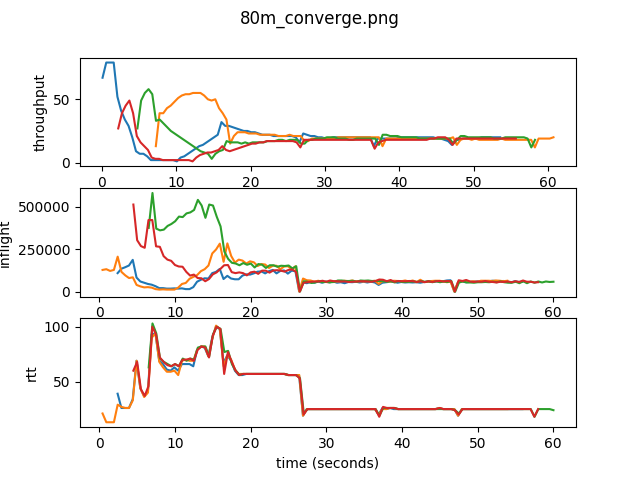
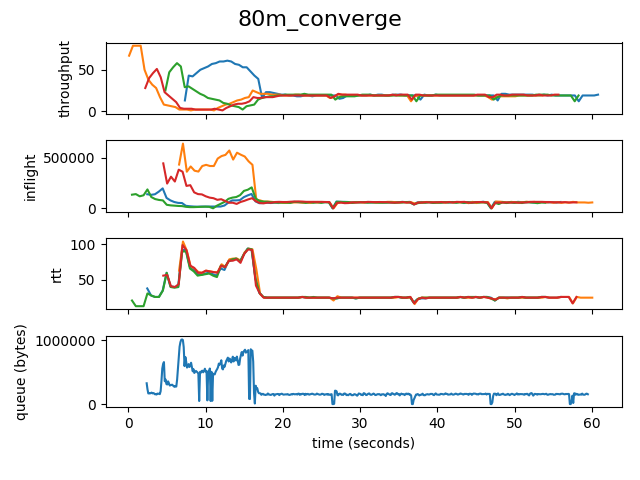
Now adds plots for queue statistics for each experiment

diff --git a/Experiments/record_local.py b/Experiments/record_local.py
@@ -1,18 +1,49 @@
+#!/usr/bin/python3
+
 import time
 import os
 import re
+import sys
+import time
 
 # pattern = re.compile(b"backlog.*b")
 pattern = (r"backlog (?P<num>\d*)b")
 patternK = (r"backlog (?P<num>\d*)Kb")
 patternM = (r"backlog (?P<num>\d*)Mb")
 
-for i in range(int(60 / .1)):
-    
+def main():
+    t = 60
+    out = sys.stdout
+    if (len(sys.argv) > 1):
+        t = int(sys.argv[1]) # seconds
+    if (len(sys.argv) > 2):
+        print("writing to: ", sys.argv[2])
+        out = open(sys.argv[2], 'w')
+    if (len(sys.argv) > 3):
+        print("waiting for : ", sys.argv[3])
+        time.sleep(int(sys.argv[3]))
+    for i in range(int(t / .1)):
+        buffer_len = get_current_buffer()
+        print(time.time(), ",", buffer_len, file=out)
+        time.sleep(.1)
+    if (len(sys.argv) > 2):
+        print("Finished writing to ", sys.argv[2], "after time", t)
+        out.close()
+
+def get_current_buffer():
+    """
+    return the current number of bytes in the tbf
+    ignore the duplicate tbf and the netem queue
+    output is always in bytes
+    """
+
+    # get the ouptut from the system call
     output = os.popen("sudo tc -s qdisc ls dev enp3s0").read()
-    buffer_len = 0
     has_skipped_netem = False
     for line in output.split("\n"):
+        # it looks like the tbf share a buffer
+        # So, the we only need to recor the first one seen
+        # break after the second one
         match = re.search(pattern, line)
         matchK = re.search(patternK, line)
         matchM = re.search(patternM, line)
@@ -21,21 +52,20 @@ for i in range(int(60 / .1)):
                 has_skipped_netem = True
                 continue
             bytes_in_buffer = int(match.group("num"))
-            buffer_len += bytes_in_buffer
+            return bytes_in_buffer
         elif (matchK):
             if (not has_skipped_netem):
                 has_skipped_netem = True
                 continue
             bytes_in_buffer = 100 * int(matchK.group("num"))
-            buffer_len += bytes_in_buffer
+            return  bytes_in_buffer
         elif (matchM):
             if (not has_skipped_netem):
                 has_skipped_netem = True
                 continue
             bytes_in_buffer = 1000000 * int(matchM.group("num"))
-            buffer_len += bytes_in_buffer
+            return bytes_in_buffer
 
 
-    # print(time.time(), ",", buffer_len)
-    print(output)
-    time.sleep(.1)
+if __name__ == "__main__":
+    main()

diff --git a/Experiments/run.py b/Experiments/run.py
@@ -8,6 +8,7 @@ PARSE_PCAP = f"{TOOLS_DIR}/Parse_pcap/target/release/parse_pcap"
 PLOT_PCAP = f"{TOOLS_DIR}/Parse_pcap/plot.py"
 
 START_TRIAL = f"{CUR_DIR}/start_trial.py"
+RECORD_LOCAL = f"{CUR_DIR}/record_local.py"
 
 
 
@@ -28,13 +29,21 @@ def main():
     if (args.build):
         os.system(f"cd {TOOLS_DIR}/Parse_pcap; cargo build --release; cd -;" )
 
+    local_time = 60
+    if (int(args.time) != 0):
+        local_time = int(args.time)
+
     if (args.rerun):
         trial_cmd = f"""\
         cd {args.directory};
         mkdir Results;
+        rm Results/*;
+        {RECORD_LOCAL} {local_time} Results/queue_length.csv 10 &
         {START_TRIAL} config.json {args.name} {args.time};
         """
+
         os.system(trial_cmd)
+
         off_cmd = f"""\
         sudo tc qdisc del dev enp3s0 root
         tc -s qdisc ls dev enp3s0
@@ -43,7 +52,7 @@ def main():
 
     parse_cmd = f"""\
     cd {args.directory}/Results;
-    rm *.csv; {PARSE_PCAP} '.*' '.' {args.granularity};
+    rm .*pi@*.csv; {PARSE_PCAP} '.*' '.' {args.granularity};
     cd -;
     """
     if (args.parse or args.rerun):
